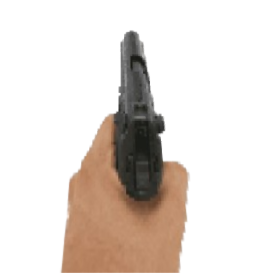
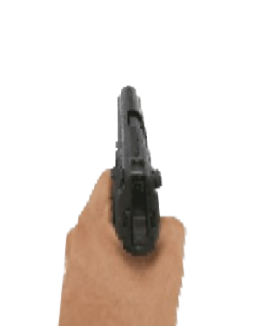
Vanalles gefikst

Changed region(s): [[0.2154, 0.0873, 0.7385, 1.0]]

diff --git a/dda.py b/dda.py
@@ -12,19 +12,7 @@ def png_to_list_fast(path):
         [0 if data[y*w + x] > 127 else 1 for x in range(w)]
         for y in range(h)
     ]
-# Map
-MAP = [
-    [1,1,1,1,1,1,1,1,1,1],
-    [1,0,0,0,0,0,0,0,0,1],
-    [1,0,1,0,1,0,0,0,0,1],
-    [1,0,1,0,1,0,0,0,1,1],
-    [1,0,0,0,0,1,0,1,0,1],
-    [1,0,1,0,0,0,0,0,0,1],
-    [1,0,0,0,1,0,0,1,0,1],
-    [1,1,1,1,1,1,1,1,1,1],
-]
 MAP = png_to_list_fast("assets/map.png")
-print(MAP)
 
 MAP_W = len(MAP[0])
 MAP_H = len(MAP)

diff --git a/main.py b/main.py
@@ -2,7 +2,7 @@ from dda import *
 import pygame
 from math import sin, cos
 
-speed = 0.6
+speed = 2
 running = True
 
 weapon_state = 0
